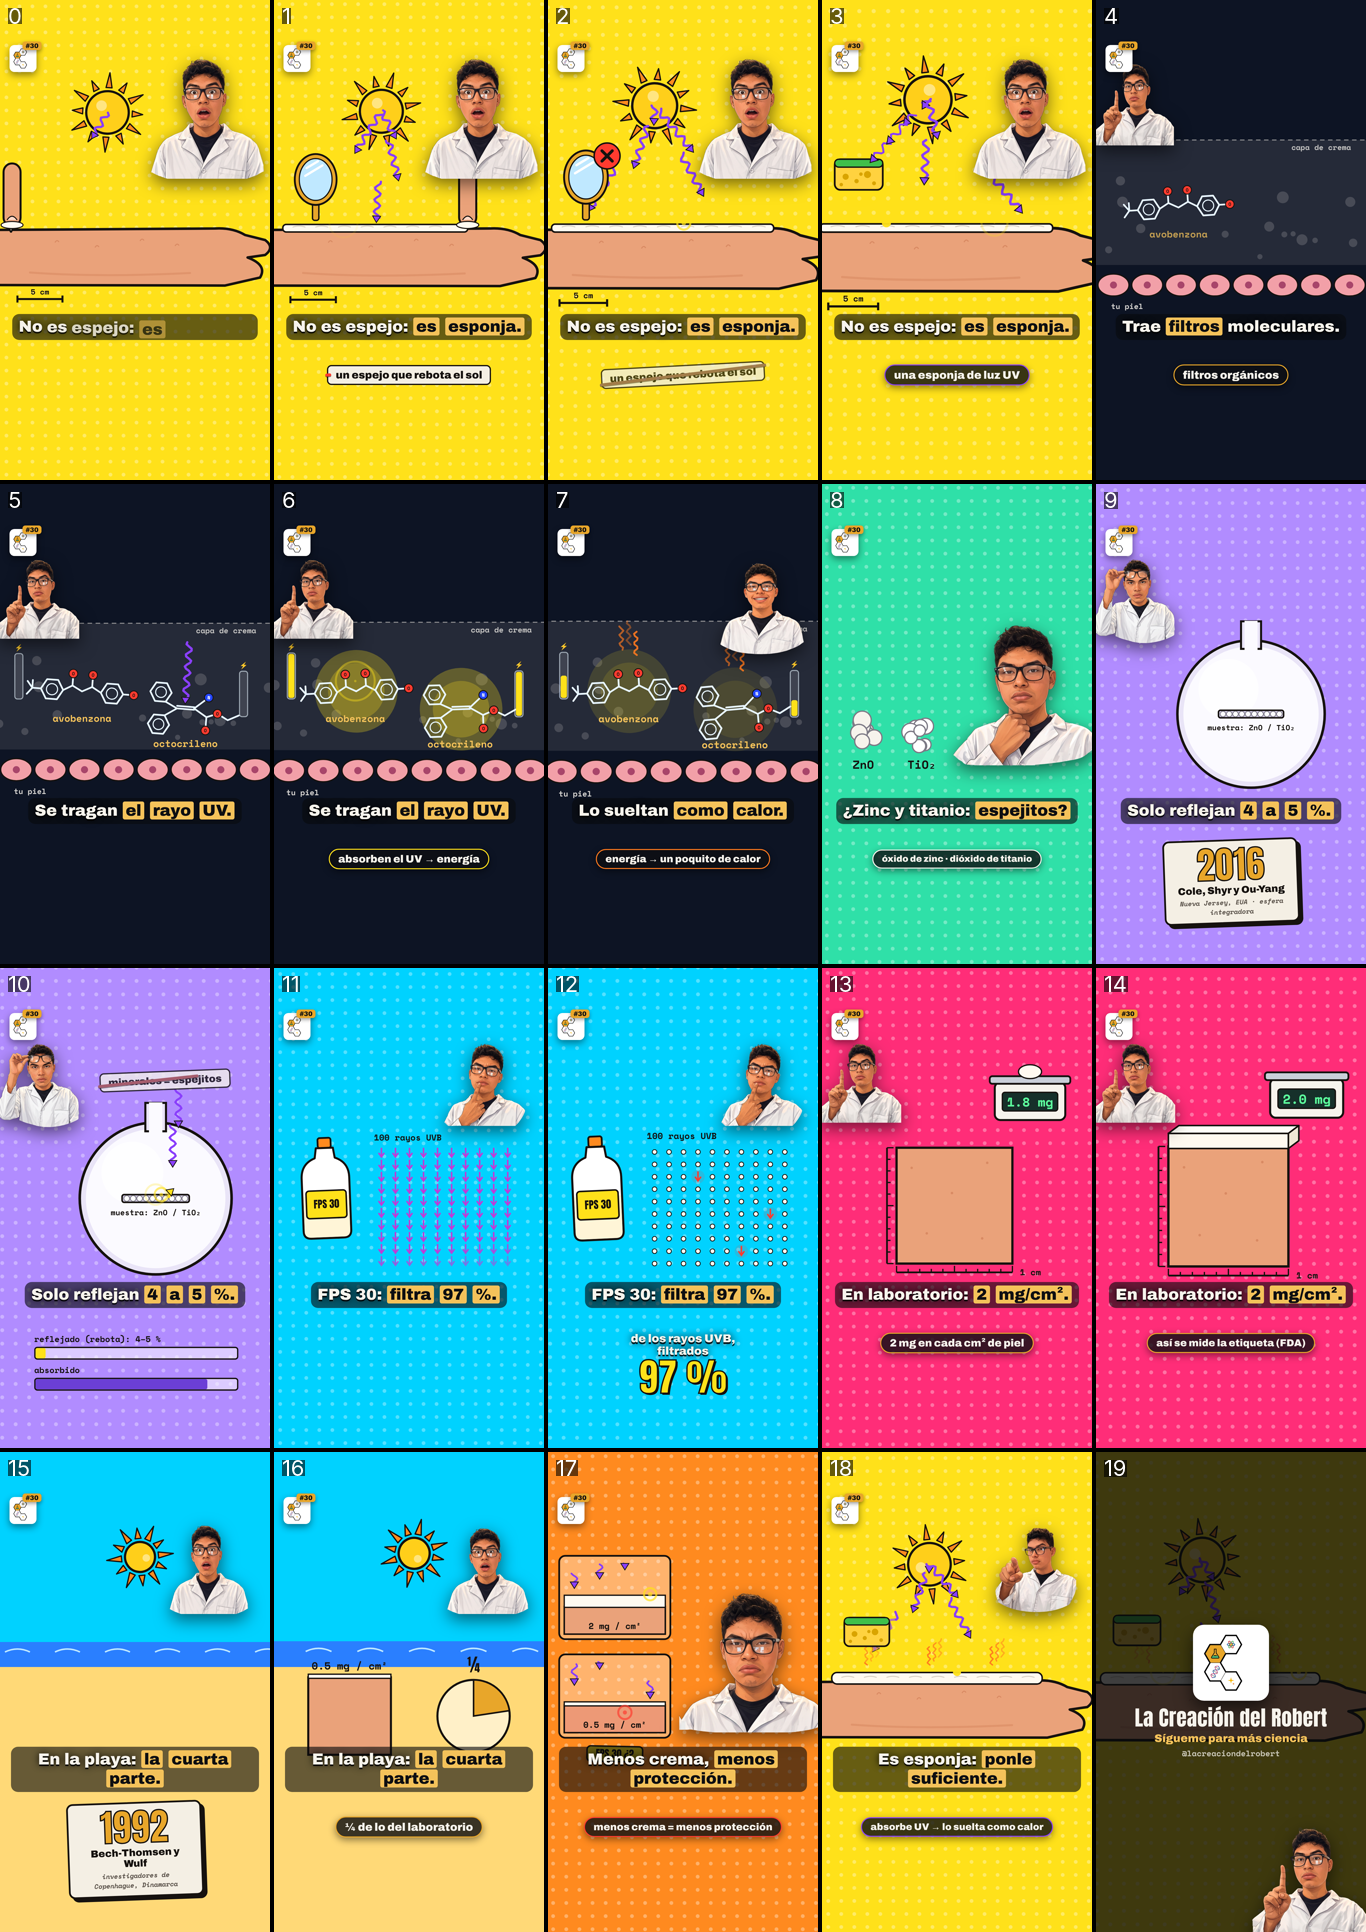
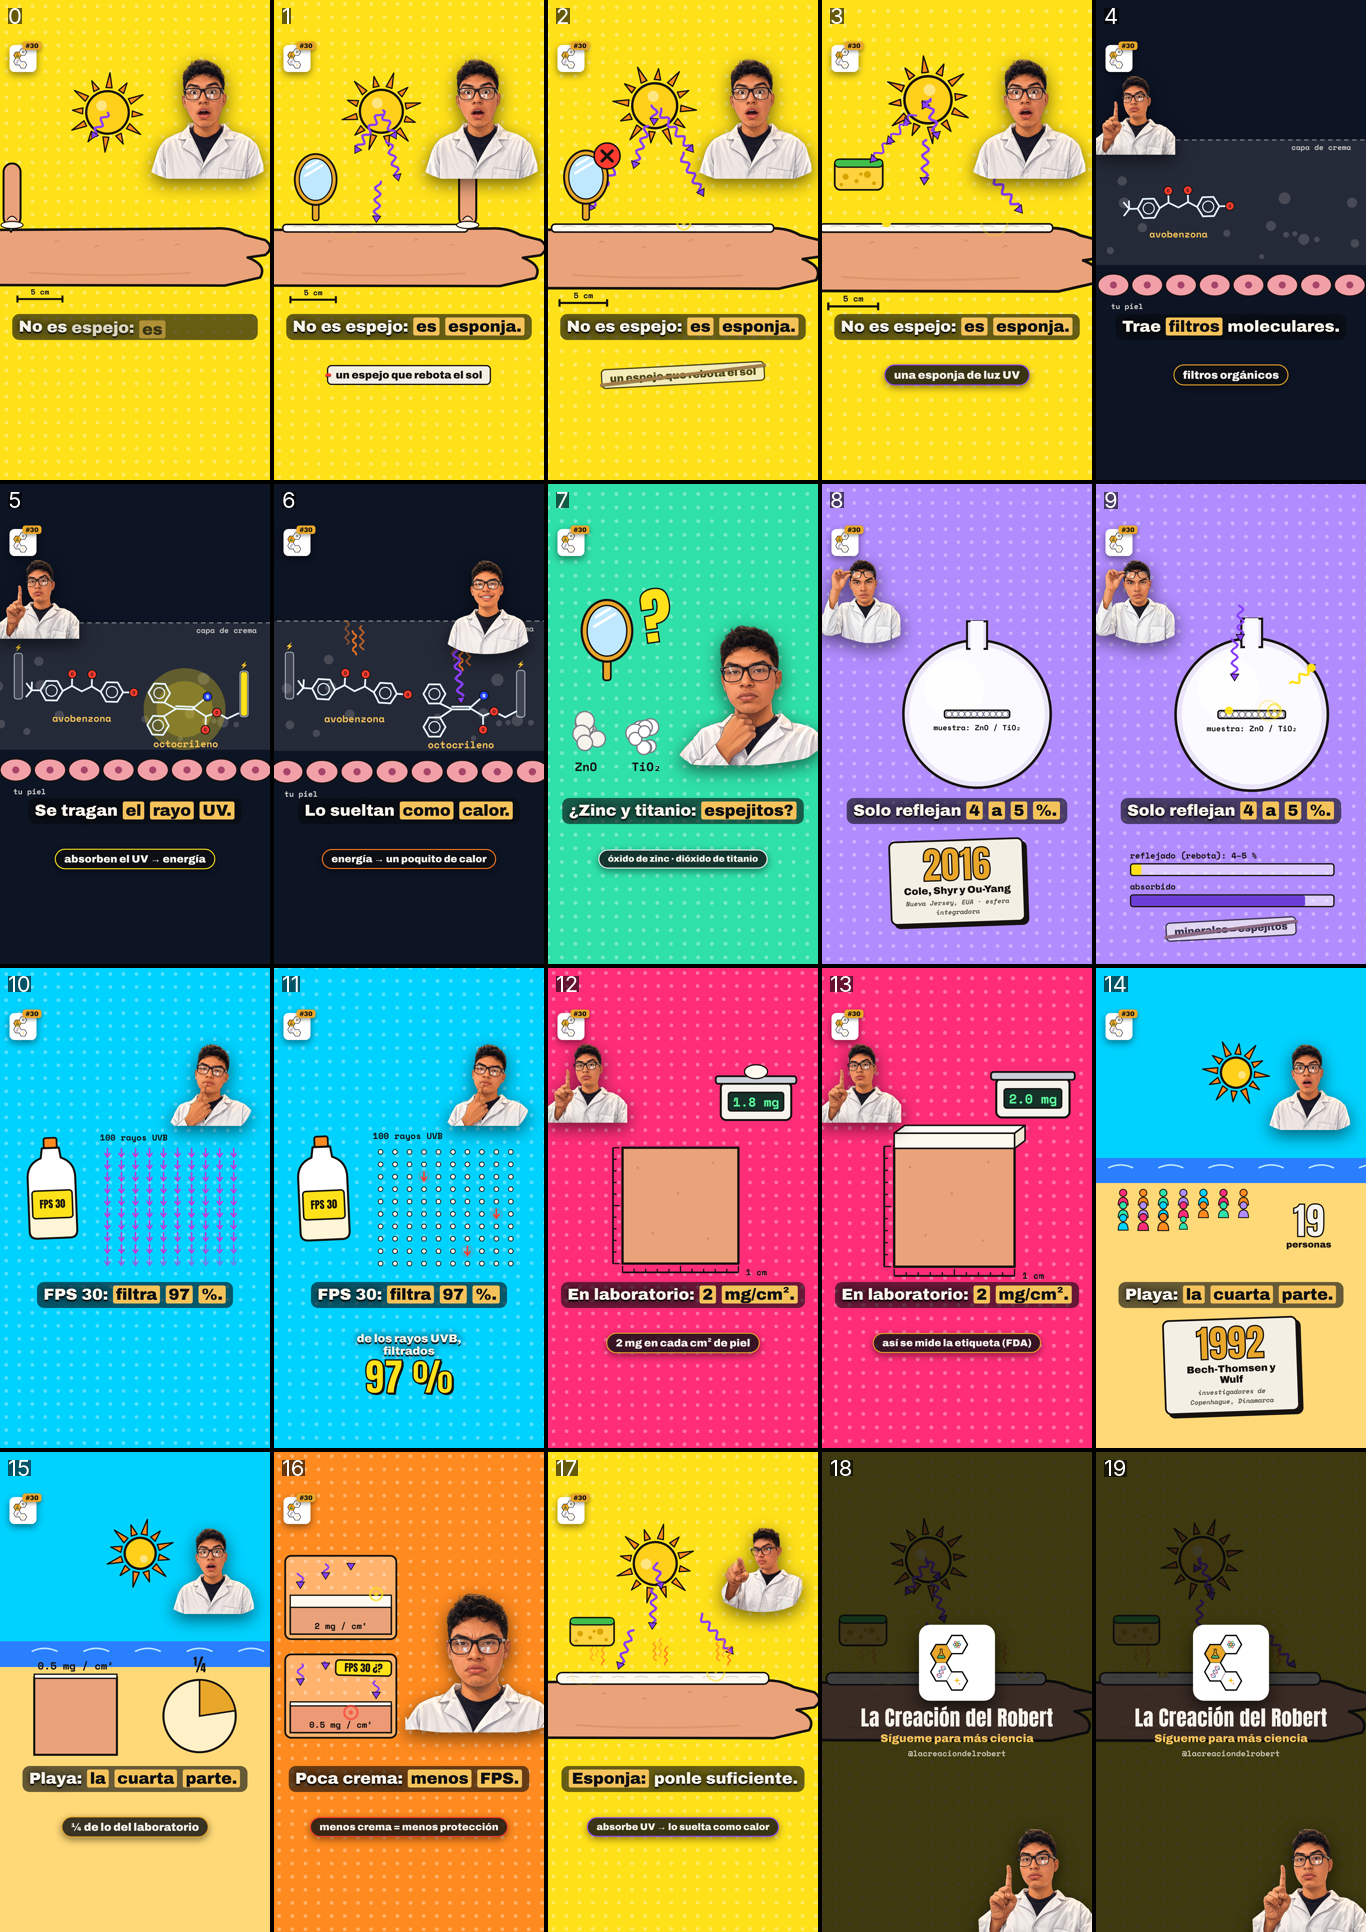
Químico #31 animado, #35 verificado [sin render]
Claude-Session: https://claude.ai/code/session_0157fpgzuJM3ymsKtSoqvmnt

diff --git a/borradores/qui-30-protector-solar/protector.jsx b/borradores/qui-30-protector-solar/protector.jsx
@@ -296,7 +296,7 @@ function Protector() {
           {Array.from({ length: 6 }, (_, i) => <path key={i} d={`M ${i * 200 - 40 + (T * 30) % 200} 800 q 50 -24 100 0`} stroke="#bfe8ff" strokeWidth={6} fill="none" />)}
           {Array.from({ length: 42 }, (_, i) => { const c = i % 7, r = Math.floor(i / 7), on = kprog(T, K.Pl + 0.8 + i * 0.05, K.Pl + 1.0 + i * 0.05, kEase.rebote), fuera = 1 - kprog(T, K.Pl + 3.2, K.Pl + 3.5);
             return on > 0 ? <Personita key={i} x={110 + c * 80} y={930 + r * 50} s={0.9 * on} o={fuera} color={[KC.pink, KC.orange, KC.mint, KC.lilac, KC.cyan][i % 5]} /> : null; })}
-          {(() => { const o2 = kprog(T, K.Pl + 3.6, K.Pl + 4.1), pie = kprog(T, K.Pl + 4.3, K.Pl + 5.2, kEase.sale);
+          {(() => { const o2 = kprog(T, K.Pl + 3.3, K.Pl + 3.7), pie = kprog(T, K.Pl + 4.3, K.Pl + 5.2, kEase.sale);
             if (o2 <= 0) return null;
             const ang = pie * Math.PI / 2;
             return <g opacity={o2}>
@@ -374,7 +374,7 @@ function Protector() {
       <Subtitulo T={T} idx={6} at={K.Fp + 0.1} until={K.La - 0.1} texto="FPS 30: *filtra 97 %.*" />
       <Subtitulo T={T} idx={7} at={K.La + 0.1} until={K.Pl - 0.1} texto="En laboratorio: *2 mg/cm².*" />
       <Subtitulo T={T} idx={8} at={K.Pl + 0.1} until={K.Me - 0.1} texto="Playa: *la cuarta parte.*" />
-      <Subtitulo T={T} idx={9} at={K.Me + 0.1} until={K.Ci - 0.1} texto="Menos crema, *menos FPS.*" />
+      <Subtitulo T={T} idx={9} at={K.Me + 0.1} until={K.Ci - 0.1} texto="Poca crema: *menos FPS.*" />
       <Subtitulo T={T} idx={10} at={K.Ci + 0.1} until={K.Ou - 0.1} texto="*Esponja:* ponle suficiente." />
 
       <Robert T={T} apariciones={[

diff --git a/borradores/qui-32-cerillo/cerillo.jsx b/borradores/qui-32-cerillo/cerillo.jsx
@@ -272,7 +272,7 @@ function Cerillo32() {
       <TarjetaEstudio T={T} at={K.Hu + 0.2} until={K.Hu + 2.6} anio="1888" quien="Londres · Bryant & May" revista="The National Archives (Reino Unido)" x={540} y={600} />
       <Chip T={T} at={K.Hu + 5.4} until={K.Qu - 0.3} texto="huelga por despidos y multas" x={540} y={1610} tam={38} borde={KC.coral} />
       <Etq T={T} at={K.Hu + 3.2} until={K.Qu - 0.3} x={60} y={1385} texto="mujeres en huelga" tam={34} color={KC.ink} />
-      <Etq T={T} at={K.Qu + 0.6} until={K.Qu + 3.0} x={330} y={1260 - 420} texto="humo de fósforo blanco" lado="der" tam={30} color={KC.ink} />
+      <Etq T={T} at={K.Qu + 0.6} until={K.Qu + 3.0} x={40} y={800} texto="humo de fósforo blanco" lado="der" tam={30} color={KC.ink} />
       <Etq T={T} at={K.Qu + 1.6} until={K.Be - 0.3} x={730} y={1150} texto="hueso de la quijada" lado="izq" tam={30} color={KC.ink} />
       <Chip T={T} at={K.Qu + 3.4} until={K.Be - 0.3} texto="1882–1897 · murió el 19 % de los casos" x={540} y={1610} tam={32} borde={KC.red} />
       <Chip T={T} at={K.Be + 2.1} until={K.Br - 0.2} texto="sin fósforo blanco en los cerillos" x={540} y={1500} tam={36} borde={KC.red} />

diff --git a/borradores/qui-33-barras-luz/barraluz.jsx b/borradores/qui-33-barras-luz/barraluz.jsx
@@ -179,7 +179,7 @@ function BarraLuzShot() {
                 : <Hexa x={xx + Math.sin(T * 1.5 + i) * 10} y={yy} r={16} color="#c7cdd8" />}</g>; })}
         </SvgCapa>
         <Chip T={T} at={K.Q + 0.4} until={K.Me - 0.3} texto="vidrio: agua oxigenada (H₂O₂)" x={540} y={760} tam={36} borde={KC.cyan} />
-        <Chip T={T} at={K.Q + 2.0} until={K.Me - 0.3} texto="plástico: éster oxalato + colorante" x={540} y={1160} tam={34} borde={KC.leaf} />
+        <Chip T={T} at={K.Q + 2.0} until={K.Me - 0.3} texto="plástico: éster oxalato + colorante" x={540} y={1500} tam={34} borde={KC.leaf} />
       </Escena>
       {/* 2 · se mezclan: molécula inestable (micro, fondo noche) */}
       <Escena T={T} a={K.Me} b={K.En} zoom={0.03}>

diff --git a/borradores/qui-32-cerillo/guion.md b/borradores/qui-32-cerillo/guion.md
@@ -5,7 +5,8 @@
 - **Gancho (de los 7):** #1 "Esto no es X: es Y", sobre lo que se ve en pantalla: "Ese cerillo no trae el fuego en la cabeza: el fósforo está en la tira de la caja."
 - **Seguridad:** no se muestra ni se sugiere ningún experimento; nunca se ve a nadie mezclando polvos. Ver Notas (la mezcla de clorato y fósforo rojo es sensible a golpes).
 - **Duración:** voz 943 caracteres / ≈ 178 palabras (≈ 57.7 s) + cierre 3.5 s → **≈ 61.2 s** (`estimar-escenas.mjs --outro 3.5`).
-- **Estado:** guion escrito; pendiente de verificación independiente (`verificacion.md`), animación y aprobación de voz de Robert.
+- **Estado:** guion verificado (`verificacion.md`), animación lista (`cerillo.jsx`, revisión en `revision/hoja.png`), voz pendiente de aprobación de Robert (~943 créditos).
+- **Duración de la base sin voz:** 61.4 s (`gen-audio.mjs`; outro de 3.7 s).
 
 ## Versión narrada
 
@@ -26,6 +27,26 @@
 | — | Outro | (sin voz) | `CierreMarca` con el logo de química sobre la llama oscurecida. |
 
 **Música:** cama grave continua; efectos en el mismo cuadro: raspón del cerillo, siseo de la chispa, "fuf" de la llama, golpe de la tarjeta, pasos de la fila que sale, zumbido grave con el vapor, sello que golpea en Berna, silencio con un tono fino cuando se apaga la luz y brilla el fósforo.
+
+## Robert en pantalla
+
+Tiempos de la base sin voz (atados a cada escena). Grande en «¿Y por qué no ponerlo en la cabeza?» y en «les brillaban las encías».
+
+| # | Entra (s) | Sale (s) | Pose | Lado | Reacciona a |
+|---|---|---|---|---|---|
+| 1 | 0.0 | 4.6 | 11_sorprendido | `gancho` | «el fósforo está en la tira de la caja» |
+| 2 | 5.6 | 9.3 | 13_senalando_arriba | `izq-alto` | «clorato de potasio… y azufre» |
+| 3 | 13.6 | 18.0 | 06_pensativo_menton | `izq-alto` | «convierte una pizca de fósforo rojo en fósforo blanco» |
+| 4 | 22.2 | 26.3 | 04_bajando_lentes | `izq-alto` | «arde el azufre y luego la madera» |
+| 5 | 26.65 | 30.2 | 07_pensativo_puno | `grande` | «¿Y por qué no ponerlo en la cabeza, como antes?» |
+| 6 | 32.6 | 36.9 | 10_serio_molesto | `arriba-der` | «1400 mujeres… se fueron a huelga» |
+| 7 | 38.0 | 42.9 | 12_perfil_serio | `izq-alto` | «matar el hueso de la quijada» |
+| 8 | 43.8 | 47.3 | 13_senalando_arriba | `izq-alto` | «firmaron prohibir esos cerillos» |
+| 9 | 48.4 | 53.3 | 11_sorprendido | `grande-izq` | «les brillaban las encías» |
+| 10 | 53.9 | 57.6 | 02_apuntando_camara | `arriba-der` | «lo trae la caja» |
+| — | 57.7 | 61.4 | 13_senalando_arriba | CierreMarca | tarjeta de cierre |
+
+**Total:** 10 apariciones · ≈ 41.7 s en pantalla (+ cierre 3.7 s) · 8 poses distintas · nunca la misma dos veces seguidas.
 
 ## Fuentes (abiertas el 29 oct 2026)
 

diff --git a/borradores/qui-35-vela/verificacion.md b/borradores/qui-35-vela/verificacion.md
@@ -31,3 +31,5 @@ Observaciones menores (no bloquean):
 ## Correcciones necesarias
 
 Ninguna. No se encontraron afirmaciones ❌ ni ⚠: todas las frases citadas en guion.md existen textualmente en las fuentes indicadas y la voz no las exagera.
+
+VEREDICTO: APROBADO
